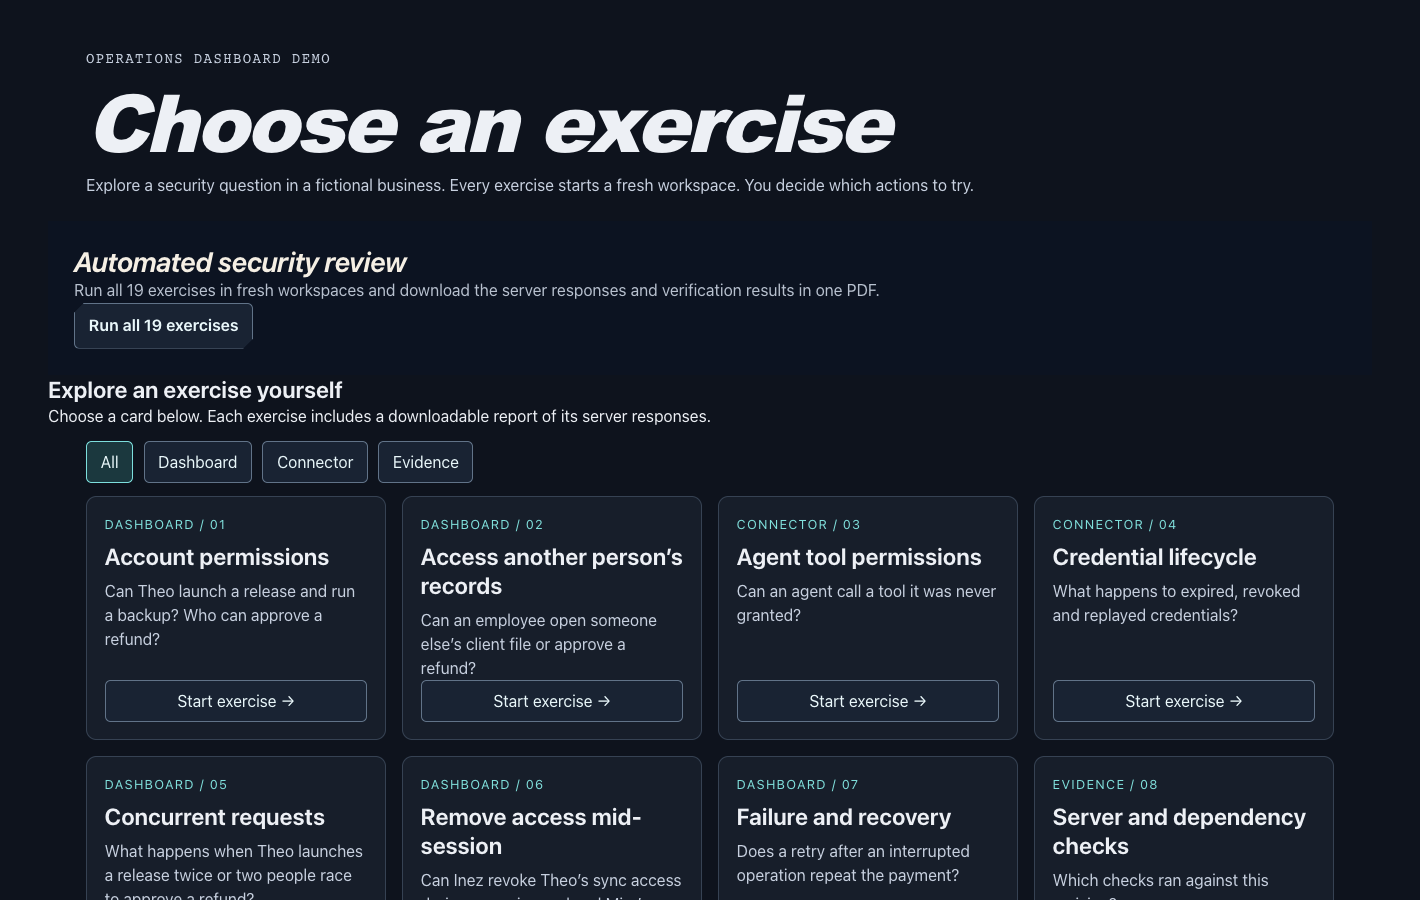
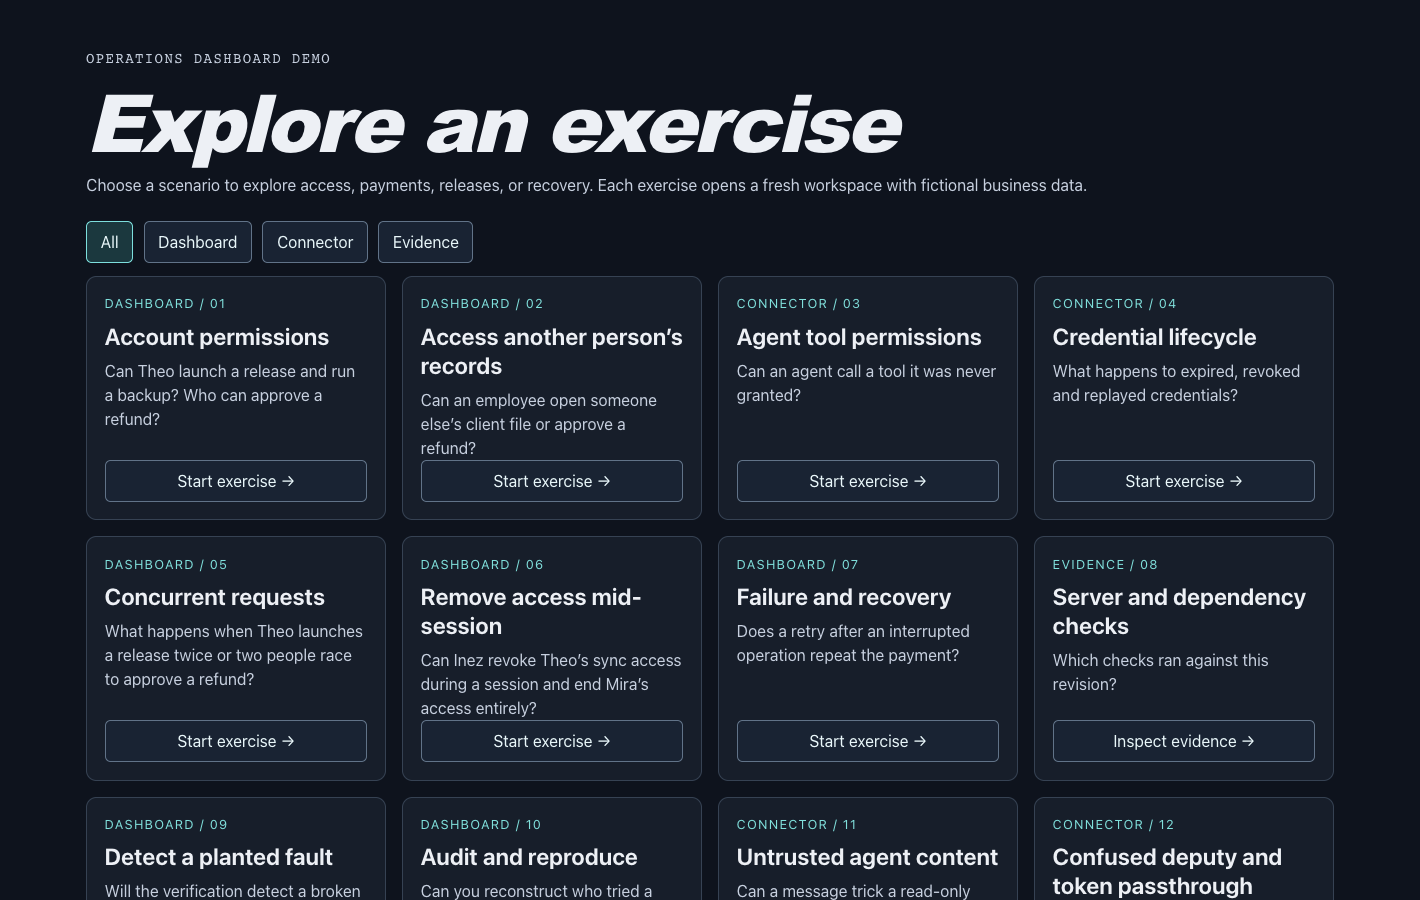
Lead visitors directly into the hands-on exercises

diff --git a/components/exercise-picker.tsx b/components/exercise-picker.tsx
@@ -18,15 +18,12 @@ export function ExercisePicker({
     <main className="exercise-picker">
       <header>
         <p className="eyebrow">OPERATIONS DASHBOARD DEMO</p>
-        <h1>Choose an exercise</h1>
+        <h1>Explore an exercise</h1>
         <p>
-          Explore a security question in a fictional business. Every exercise
-          starts a fresh workspace. You decide which actions to try.
+          Choose a scenario to explore access, payments, releases, or recovery.
+          Each exercise opens a fresh workspace with fictional business data.
         </p>
       </header>
-      <SuiteReview />
-      <h2>Explore an exercise yourself</h2>
-      <p>Choose a card below. Each exercise includes a downloadable report of its server responses.</p>
       <nav aria-label="Filter exercises">
         {['All', 'Dashboard', 'Connector', 'Evidence'].map((f) => (
           <button
@@ -59,6 +56,7 @@ export function ExercisePicker({
             </article>
           ))}
       </div>
+      <SuiteReview />
     </main>
   );
 }

diff --git a/README.md b/README.md
@@ -1,20 +1,26 @@
 # Operations Dashboard Demo
 
+Try approving a refund as an employee, open a client record assigned to you, or revoke a team member’s access while they’re signed in. Each of the 19 exercises opens a fresh workspace with fictional accounts and records.
+
 [![Launch Operations Dashboard Demo](docs/launch-ops-dashboard.svg)](https://vps-ca027b84.vps.ovh.us/launch)
 
-To try an exercise, open the demo and choose a card under **Explore an exercise yourself**. Select **Start exercise** to try the actions in the dashboard or **Inspect evidence** to view published results. The guide lists the roles, steps, and expected responses for each card. [Step-by-step guide to all 19 exercises](docs/security/campaign/README.md)
+## Explore an exercise
 
-During an interactive exercise, expand **Latest server response** to inspect a decision. Select **Download exercise report (PDF)** before choosing another exercise. For example, the report can show that the server refused Mira’s refund approval with HTTP 403, the ledger stayed at `submitted`, and the provider issued zero refunds. As Owner, you can download receipts for both roles after approving the same refund as Inez.
+Choose a card and select **Start exercise**. Pick a role, try an action, and open **Latest server response** to see how the dashboard handled it. On evidence cards, select **Inspect evidence** to see the published checks for the deployed build. [Step-by-step guide to all 19 exercises](docs/security/campaign/README.md)
 
-Under **Automated security review**, select **Run all 19 exercises**. The hosted runner opens the dashboard in Chromium, performs each scenario in a fresh workspace, and checks the server responses and their effects. When it finishes, select **Download suite results (PDF)**. The report identifies the tested build and shows which exercises passed, failed, or were incomplete, with the operations and evidence for each. Exercises 8, 13, and 15 inspect published checks for that build. You can refresh the picker to check progress and retrieve the report in the same browser for up to eight hours from the start of your run.
+For example, in **Account permissions**, sign in as Mira (Employee), submit a refund, and try to approve it. The server returns HTTP 403 and the refund stays submitted. Switch to Inez (Owner) in the same workspace to approve it, then check the payment ledger.
+
+Select **Download exercise report (PDF)** to save your results before choosing another exercise. As Owner, you can download receipts for both roles. Workspaces expire after eight hours.
+
+[![Operations Dashboard Demo exercise cards](docs/security/campaign/exercise-picker.png)](https://vps-ca027b84.vps.ovh.us/launch)
+
+## Automated security review
+
+Select **Run all 19 exercises** on the exercise selection page for a single PDF covering the full set. The hosted runner opens each scenario in Chromium and records the server responses and their effects. When the run finishes, select **Download suite results (PDF)**. The report identifies the tested build and shows which exercises passed, failed, or were incomplete. You can return to the same browser for up to eight hours from the start of the run to download it.
 
 [Hosted results by exercise](https://github.com/k-mc-martin/example-dashboard/actions/workflows/hosted-exercises.yml) · [Campaign checks](https://github.com/k-mc-martin/example-dashboard/actions/workflows/campaign.yml) · [Earlier account review results](docs/security/accounts.md#hosted-account-review-november-10-2026) · [Account controls worksheet](docs/security/manual-review.md)
 
 [Browse the source in VS Code](https://github.dev/k-mc-martin/example-dashboard) · [Deployed commit](https://vps-ca027b84.vps.ovh.us/version)
-
-Explore how a business controls access, approves refunds, deploys changes, and recovers from failures. You can try to approve a refund as an employee, revoke a team member’s access while they are signed in, or give a connector permission to read mail and then ask it to issue a refund. Each visitor gets a separate workspace with fictional accounts, records, and providers. Workspaces expire after eight hours.
-
-[![Operations Dashboard Demo exercise picker showing independent security exercises](docs/security/campaign/exercise-picker.png)](https://vps-ca027b84.vps.ovh.us/launch)
 
 ## Run locally
 

diff --git a/docs/security/campaign/README.md b/docs/security/campaign/README.md
@@ -2,7 +2,7 @@
 
 [Choose an exercise in the live demo](https://vps-ca027b84.vps.ovh.us/launch) · [Deployed commit](https://vps-ca027b84.vps.ovh.us/version) · [Campaign CI](https://github.com/k-mc-martin/example-dashboard/actions/workflows/campaign.yml) · [Scanner evidence](https://github.com/k-mc-martin/example-dashboard/actions/workflows/security-tools.yml) · [Rules and limits](policy.md)
 
-Under **Explore an exercise yourself**, choose a card and select **Start exercise**. Sign in as Mira (Employee), Theo (Administrator), or Inez (Owner). For Theo’s Administrator checks, follow exercises **1, 2, 5, and 6** in the [exercise directory](#exercise-directory). The exercise opens on its first dashboard screen. For exercises 8, 13, and 15, select **Inspect evidence** to open **Verification results** directly. **Sign out** changes identity within the same exercise. **Teams** lets the Owner open a member in another tab of that workspace. A private browser window represents an independent visitor. Selecting a card under **Choose another exercise** starts a fresh workspace.
+Under **Explore an exercise**, choose a card and select **Start exercise**. Sign in as Mira (Employee), Theo (Administrator), or Inez (Owner). For Theo’s Administrator checks, follow exercises **1, 2, 5, and 6** in the [exercise directory](#exercise-directory). The exercise opens on its first dashboard screen. For exercises 8, 13, and 15, select **Inspect evidence** to open **Verification results** directly. **Sign out** changes identity within the same exercise. **Teams** lets the Owner open a member in another tab of that workspace. A private browser window represents an independent visitor. Selecting a card under **Choose another exercise** starts a fresh workspace.
 
 For each review, compare **Latest server response** with the expected outcome in the table. For a denied change, inspect the affected record or ledger afterward. Try the allowed action as well, so you can see that the operation works for an authorized caller. For evidence reviews, compare the displayed checks with the GitHub run for the same commit. You can record the build, date, browser, role, steps, expected and observed outcomes, and a redacted evidence reference in [the blank results sheet](manual-results.csv).
 
